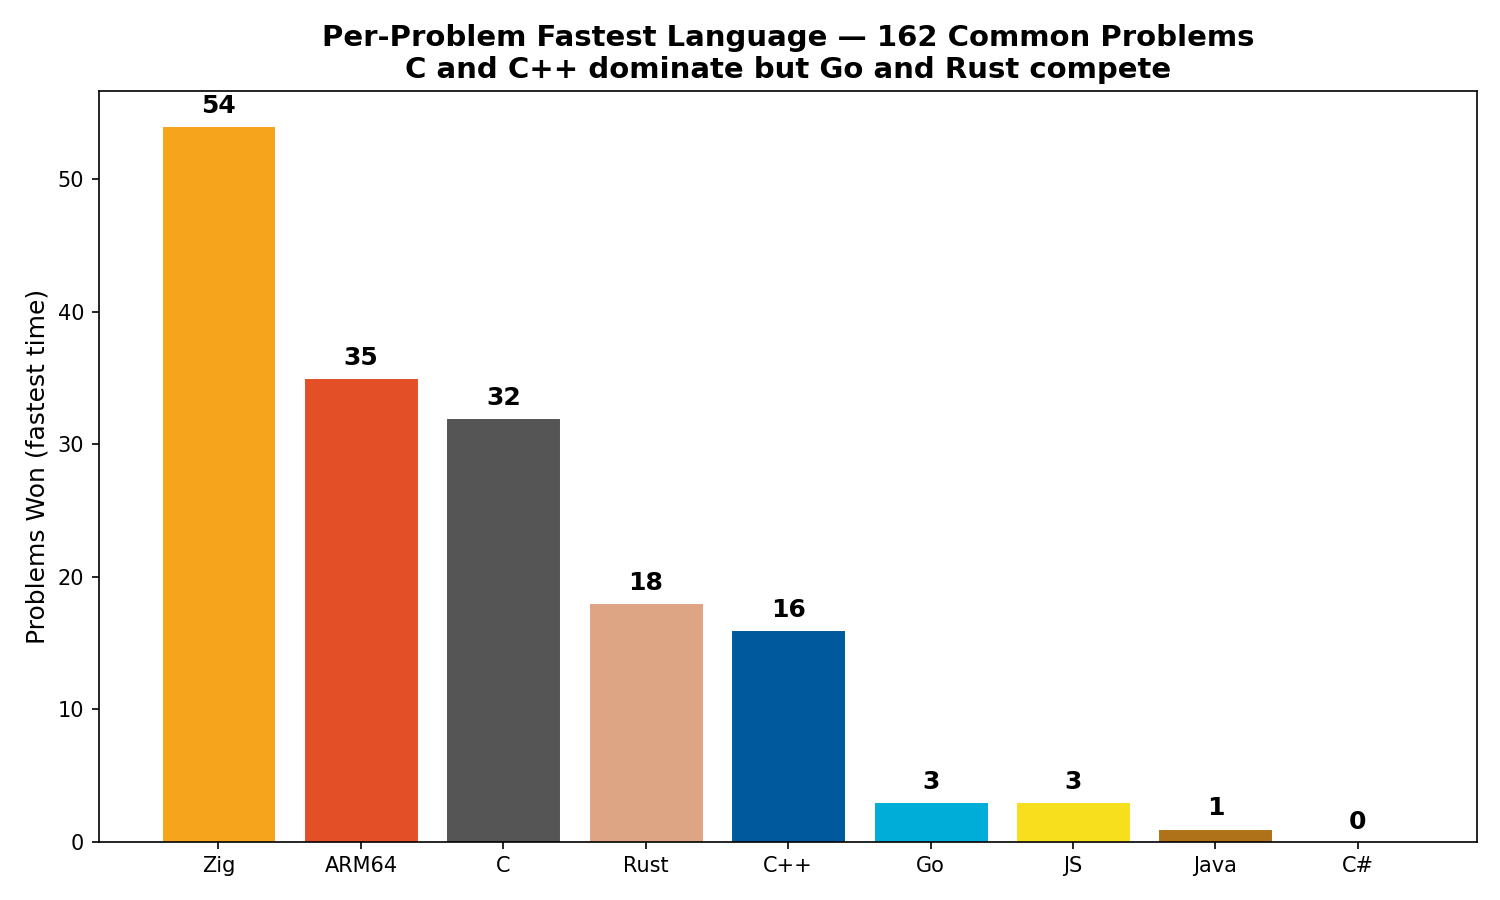
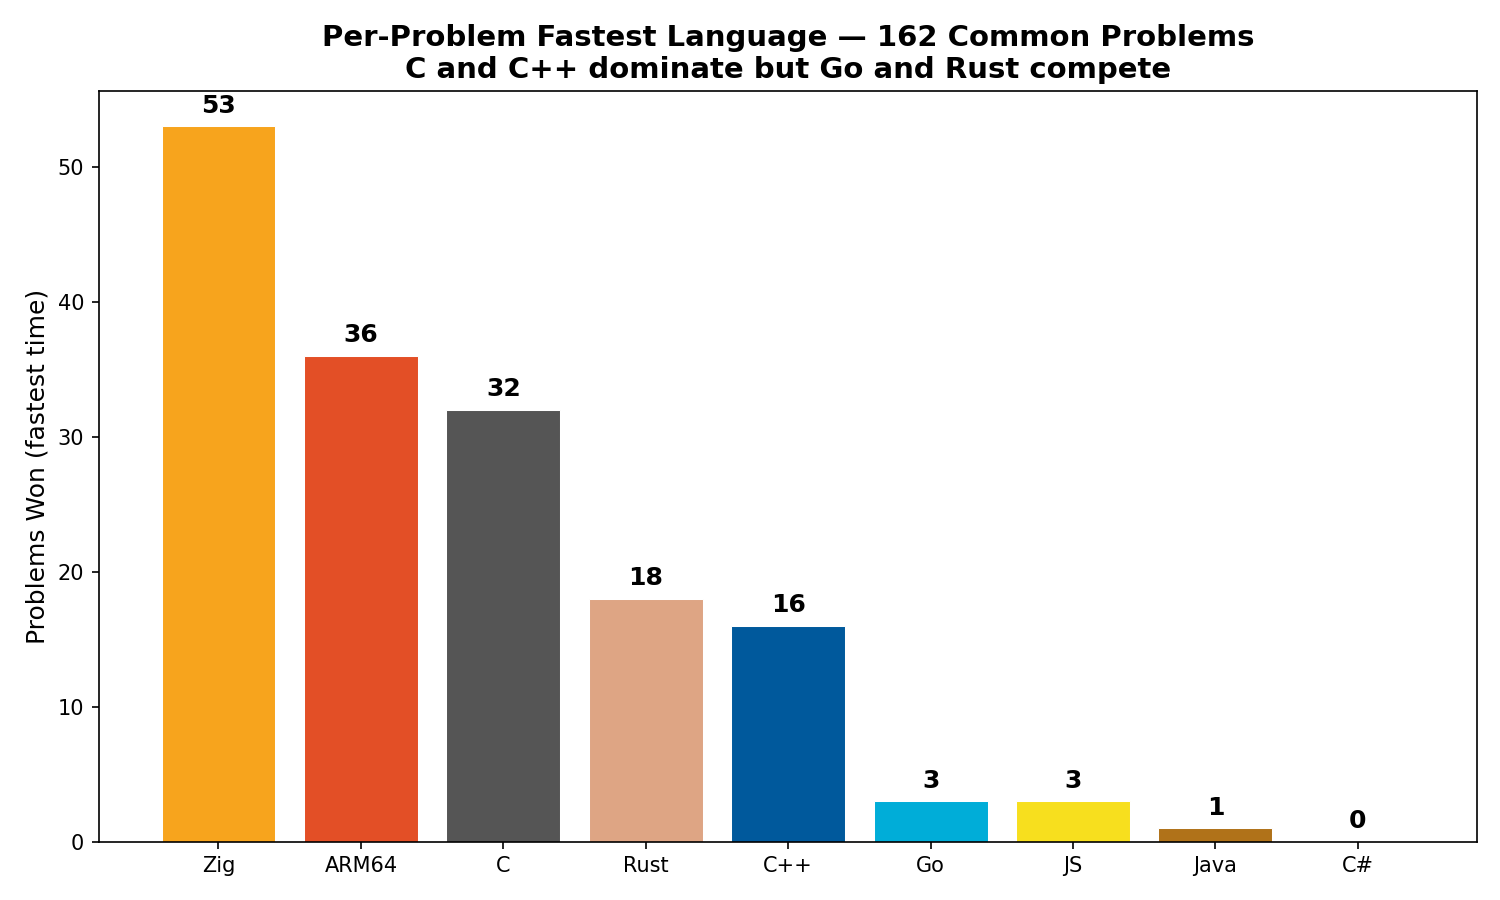
refresh arm64 p048 (corrected)

diff --git a/THREE_MODE_REPORT.md b/THREE_MODE_REPORT.md
@@ -14,7 +14,7 @@ Reading the columns:
 | Zig | 208 | 27.81 s | 6.88 s | 15.06 s |
 | Rust | 219 | 83.96 s | 119.71 s | 270.40 s |
 | Go | 219 | 45.20 s | 226.40 s | 536.30 s |
-| ARM64 | 162 | 19.29 s | 1.24 s | 3.96 s |
+| ARM64 | 162 | 19.29 s | 1.24 s | 3.97 s |
 | C# | 220 | 48.36 s | 67.23 s | 68.27 s |
 | Java | 219 | 48.04 s | 267.33 s | 438.09 s |
 | JS | 218 | 102.78 s | 192.70 s | 192.70 s |
@@ -86,7 +86,7 @@ Each cell: `runtime / compile`. Sorted by problem number.
 | 045 | 37.9 µs / 233.8 ms | 52.0 µs / 0 ns | 35.7 µs / 623.7 ms | 51.0 µs / 1.16 s | 58.0 µs / 0 ns | 42.4 µs / 0 ns | 43.5 µs / 722.3 ms | 72.0 µs / 0 ns | 3.7 ms / 0 ns |
 | 046 | 3.1 ms / 213.1 ms | 3.1 ms / 0 ns | 4.5 ms / 782.0 ms | 4.3 ms / 1.17 s | 3.9 ms / 0 ns | 3.7 ms / 0 ns | 4.8 ms / 733.3 ms | 8.4 ms / 0 ns | 21.1 ms / 0 ns |
 | 047 | 6.1 ms / 259.9 ms | 0 ns / 0 ns | 5.9 ms / 646.5 ms | 6.3 ms / 1.88 s | 6.1 ms / 0 ns | 6.3 ms / 0 ns | 6.9 ms / 697.5 ms | 11.7 ms / 0 ns | 415.0 ms / 0 ns |
-| 048 | 117.5 µs / 208.0 ms | 100.0 µs / 0 ns | 130.7 µs / 645.5 ms | 355.2 µs / 1.21 s | 85.0 µs / 119.7 ms | 231.8 µs / 0 ns | 1.3 ms / 677.3 ms | 500.4 µs / 0 ns | 682.5 µs / 0 ns |
+| 048 | 117.5 µs / 208.0 ms | 100.0 µs / 0 ns | 130.7 µs / 645.5 ms | 355.2 µs / 1.21 s | 76.0 µs / 135.7 ms | 231.8 µs / 0 ns | 1.3 ms / 677.3 ms | 500.4 µs / 0 ns | 682.5 µs / 0 ns |
 | 049 | 121.0 ms / 353.7 ms | 0 ns / 0 ns | 17.8 ms / 870.7 ms | 46.4 ms / 1.45 s | 795.0 µs / 0 ns | 10.1 ms / 0 ns | 12.9 ms / 767.4 ms | 61.2 ms / 0 ns | 81.8 ms / 0 ns |
 | 050 | 2.7 ms / 240.3 ms | 2.5 ms / 0 ns | 895.7 µs / 815.1 ms | 7.4 ms / 1.27 s | 2.4 ms / 143.1 ms | 7.5 ms / 0 ns | 4.1 ms / 683.5 ms | 5.1 ms / 0 ns | 101.5 ms / 0 ns |
 | 051 | 376.0 µs / 215.4 ms | 70.0 µs / 0 ns | 734.6 µs / 735.9 ms | 1.8 ms / 1.15 s | 1.0 ms / 0 ns | 309.1 µs / 0 ns | 1.8 ms / 733.5 ms | 3.0 ms / 0 ns | 54.0 ms / 0 ns |

diff --git a/RESULTS.md b/RESULTS.md
@@ -7,8 +7,8 @@
 
 | Rank | Language | Total Time | vs C | Avg SLOC | Wins |
 |------|----------|-----------|------|----------|------|
-| 1 | **Zig** | 14.64s | 0.49x | 64 | 54 |
-| 2 | **ARM64** | 19.81s | 0.67x | 199 | 35 |
+| 1 | **Zig** | 14.64s | 0.49x | 64 | 53 |
+| 2 | **ARM64** | 19.81s | 0.67x | 199 | 36 |
 | 3 | **C** | 29.63s | 1.00x | 70 | 32 |
 | 4 | **C++** | 30.98s | 1.05x | 49 | 16 |
 | 5 | **C#** | 37.86s | 1.28x | 52 | 0 |

diff --git a/COVERAGE.md b/COVERAGE.md
@@ -1,6 +1,6 @@
 # Project Euler — Coverage Dashboard
 
-_Generated: 2026-05-09 19:52_
+_Generated: 2026-05-09 19:54_
 
 Legend: 🟩 done · 🟨 parked / known issue · 🟥 missing · ⬛ out of scope
 
